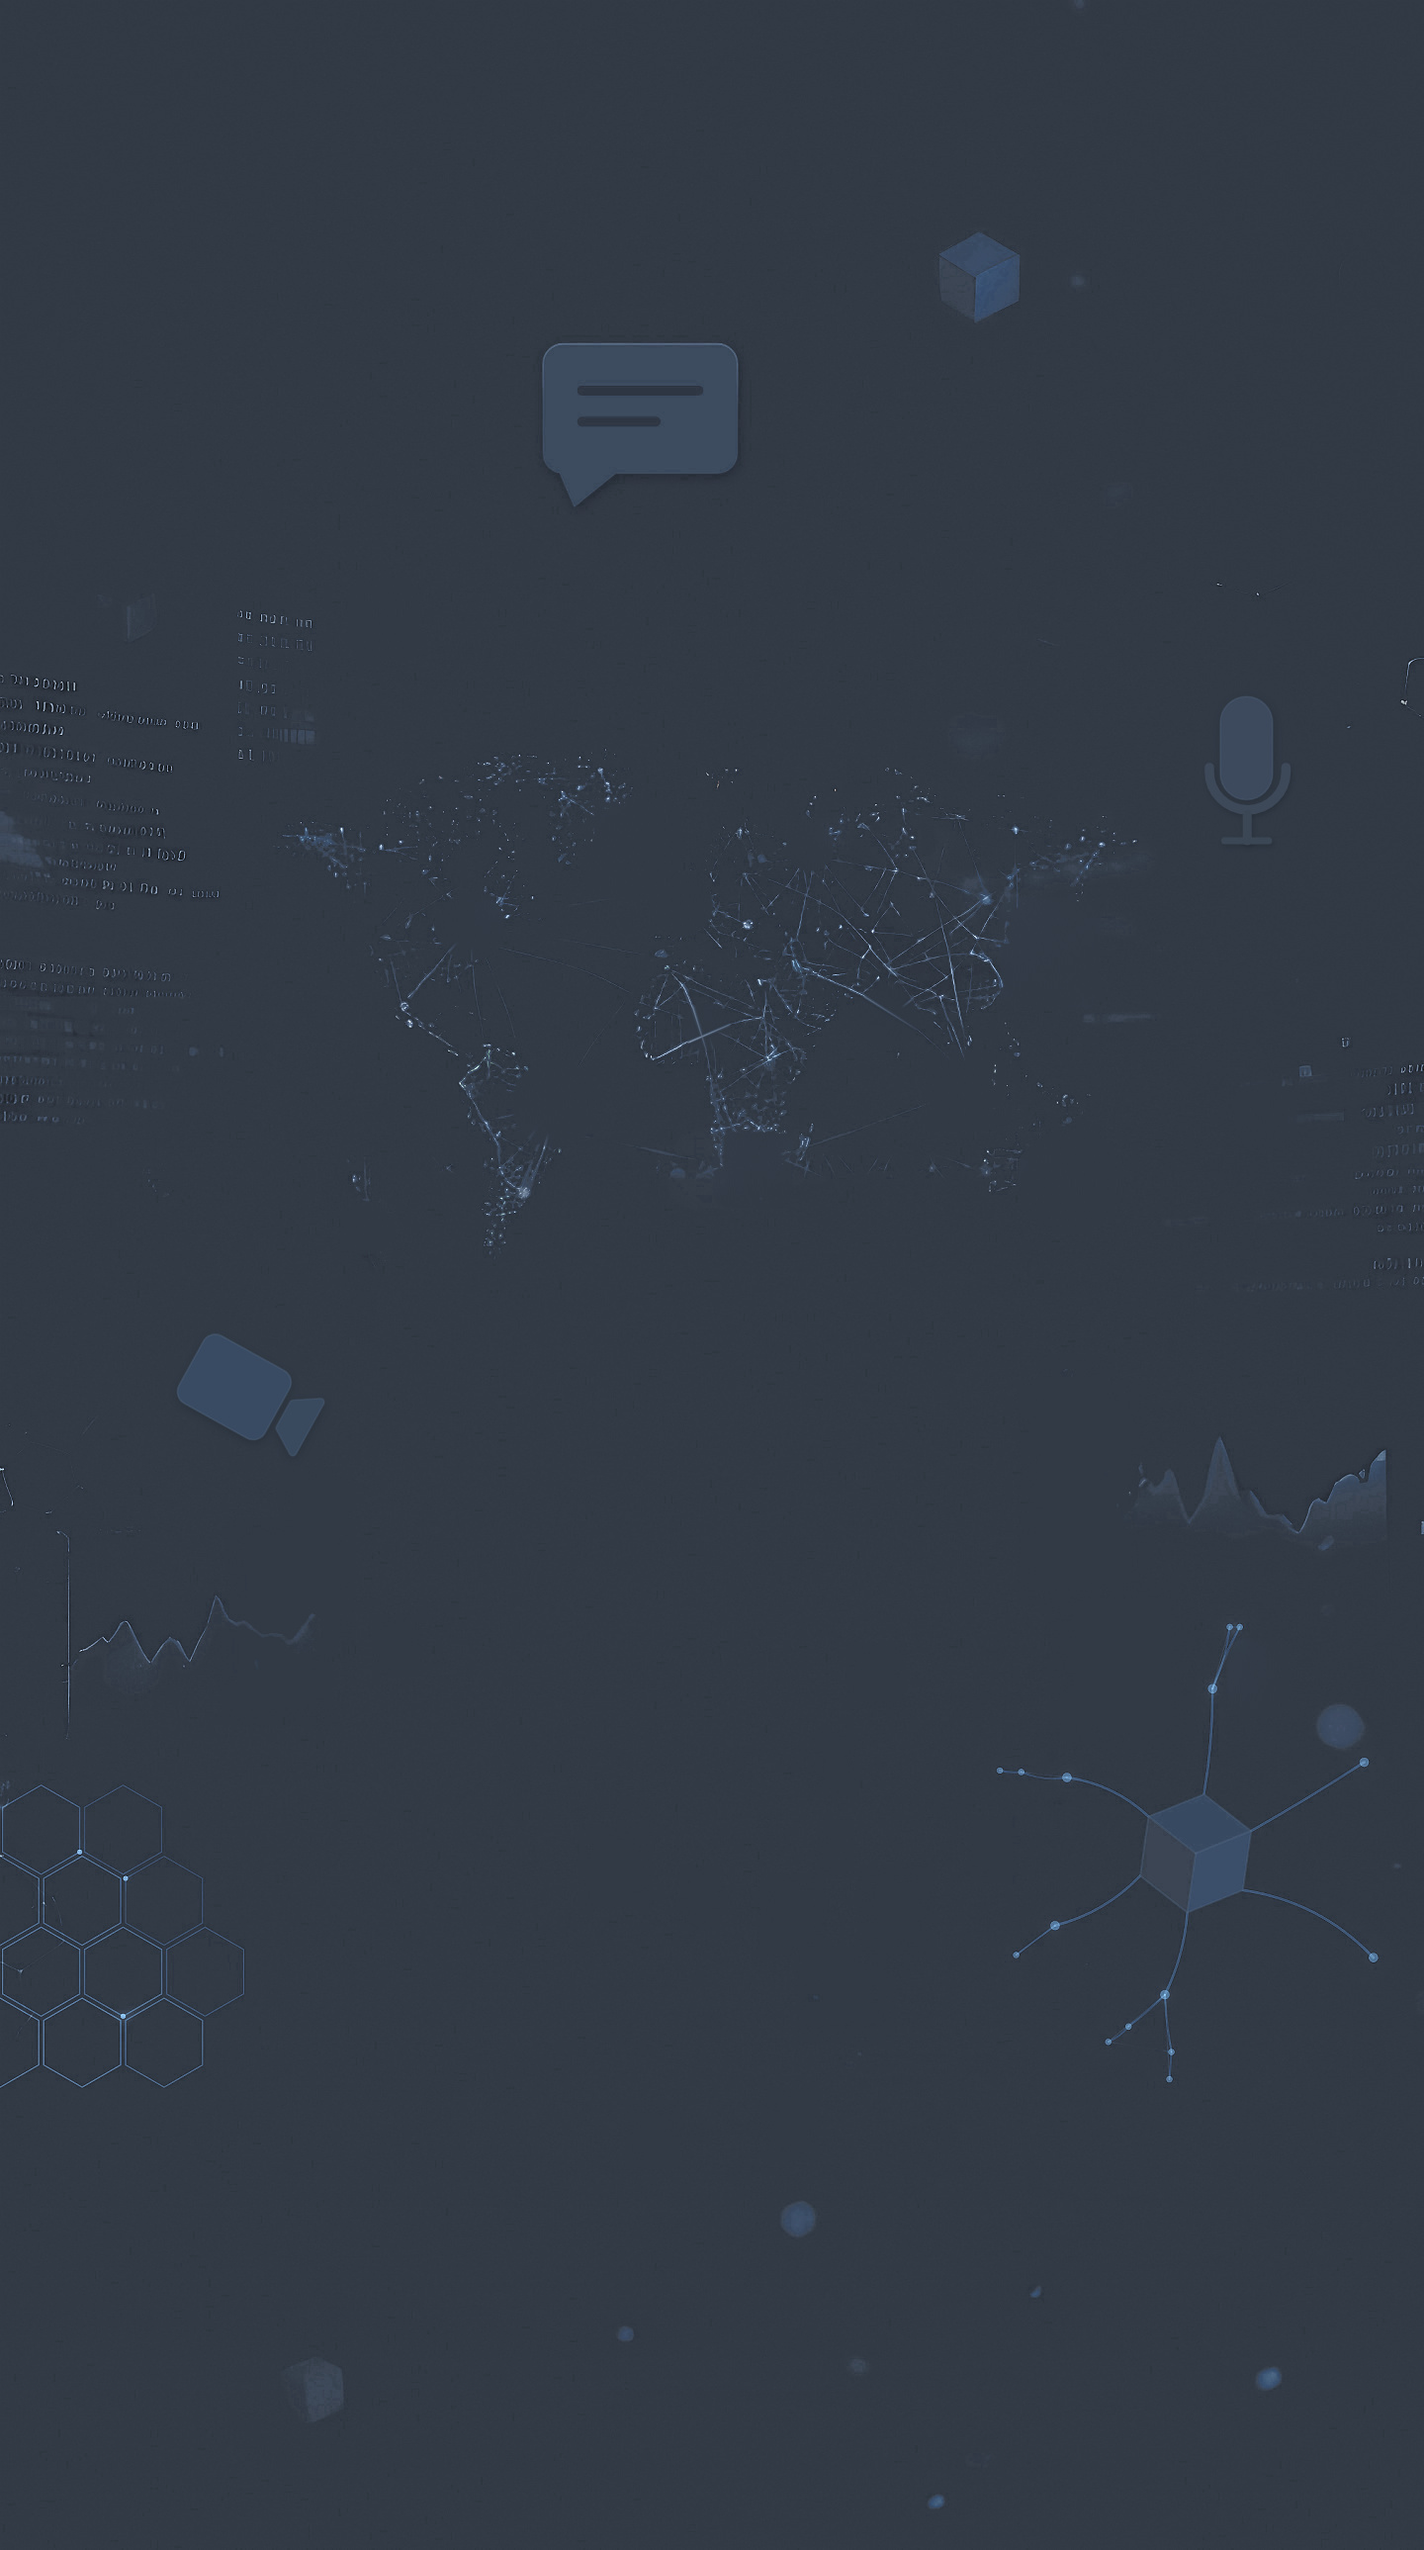
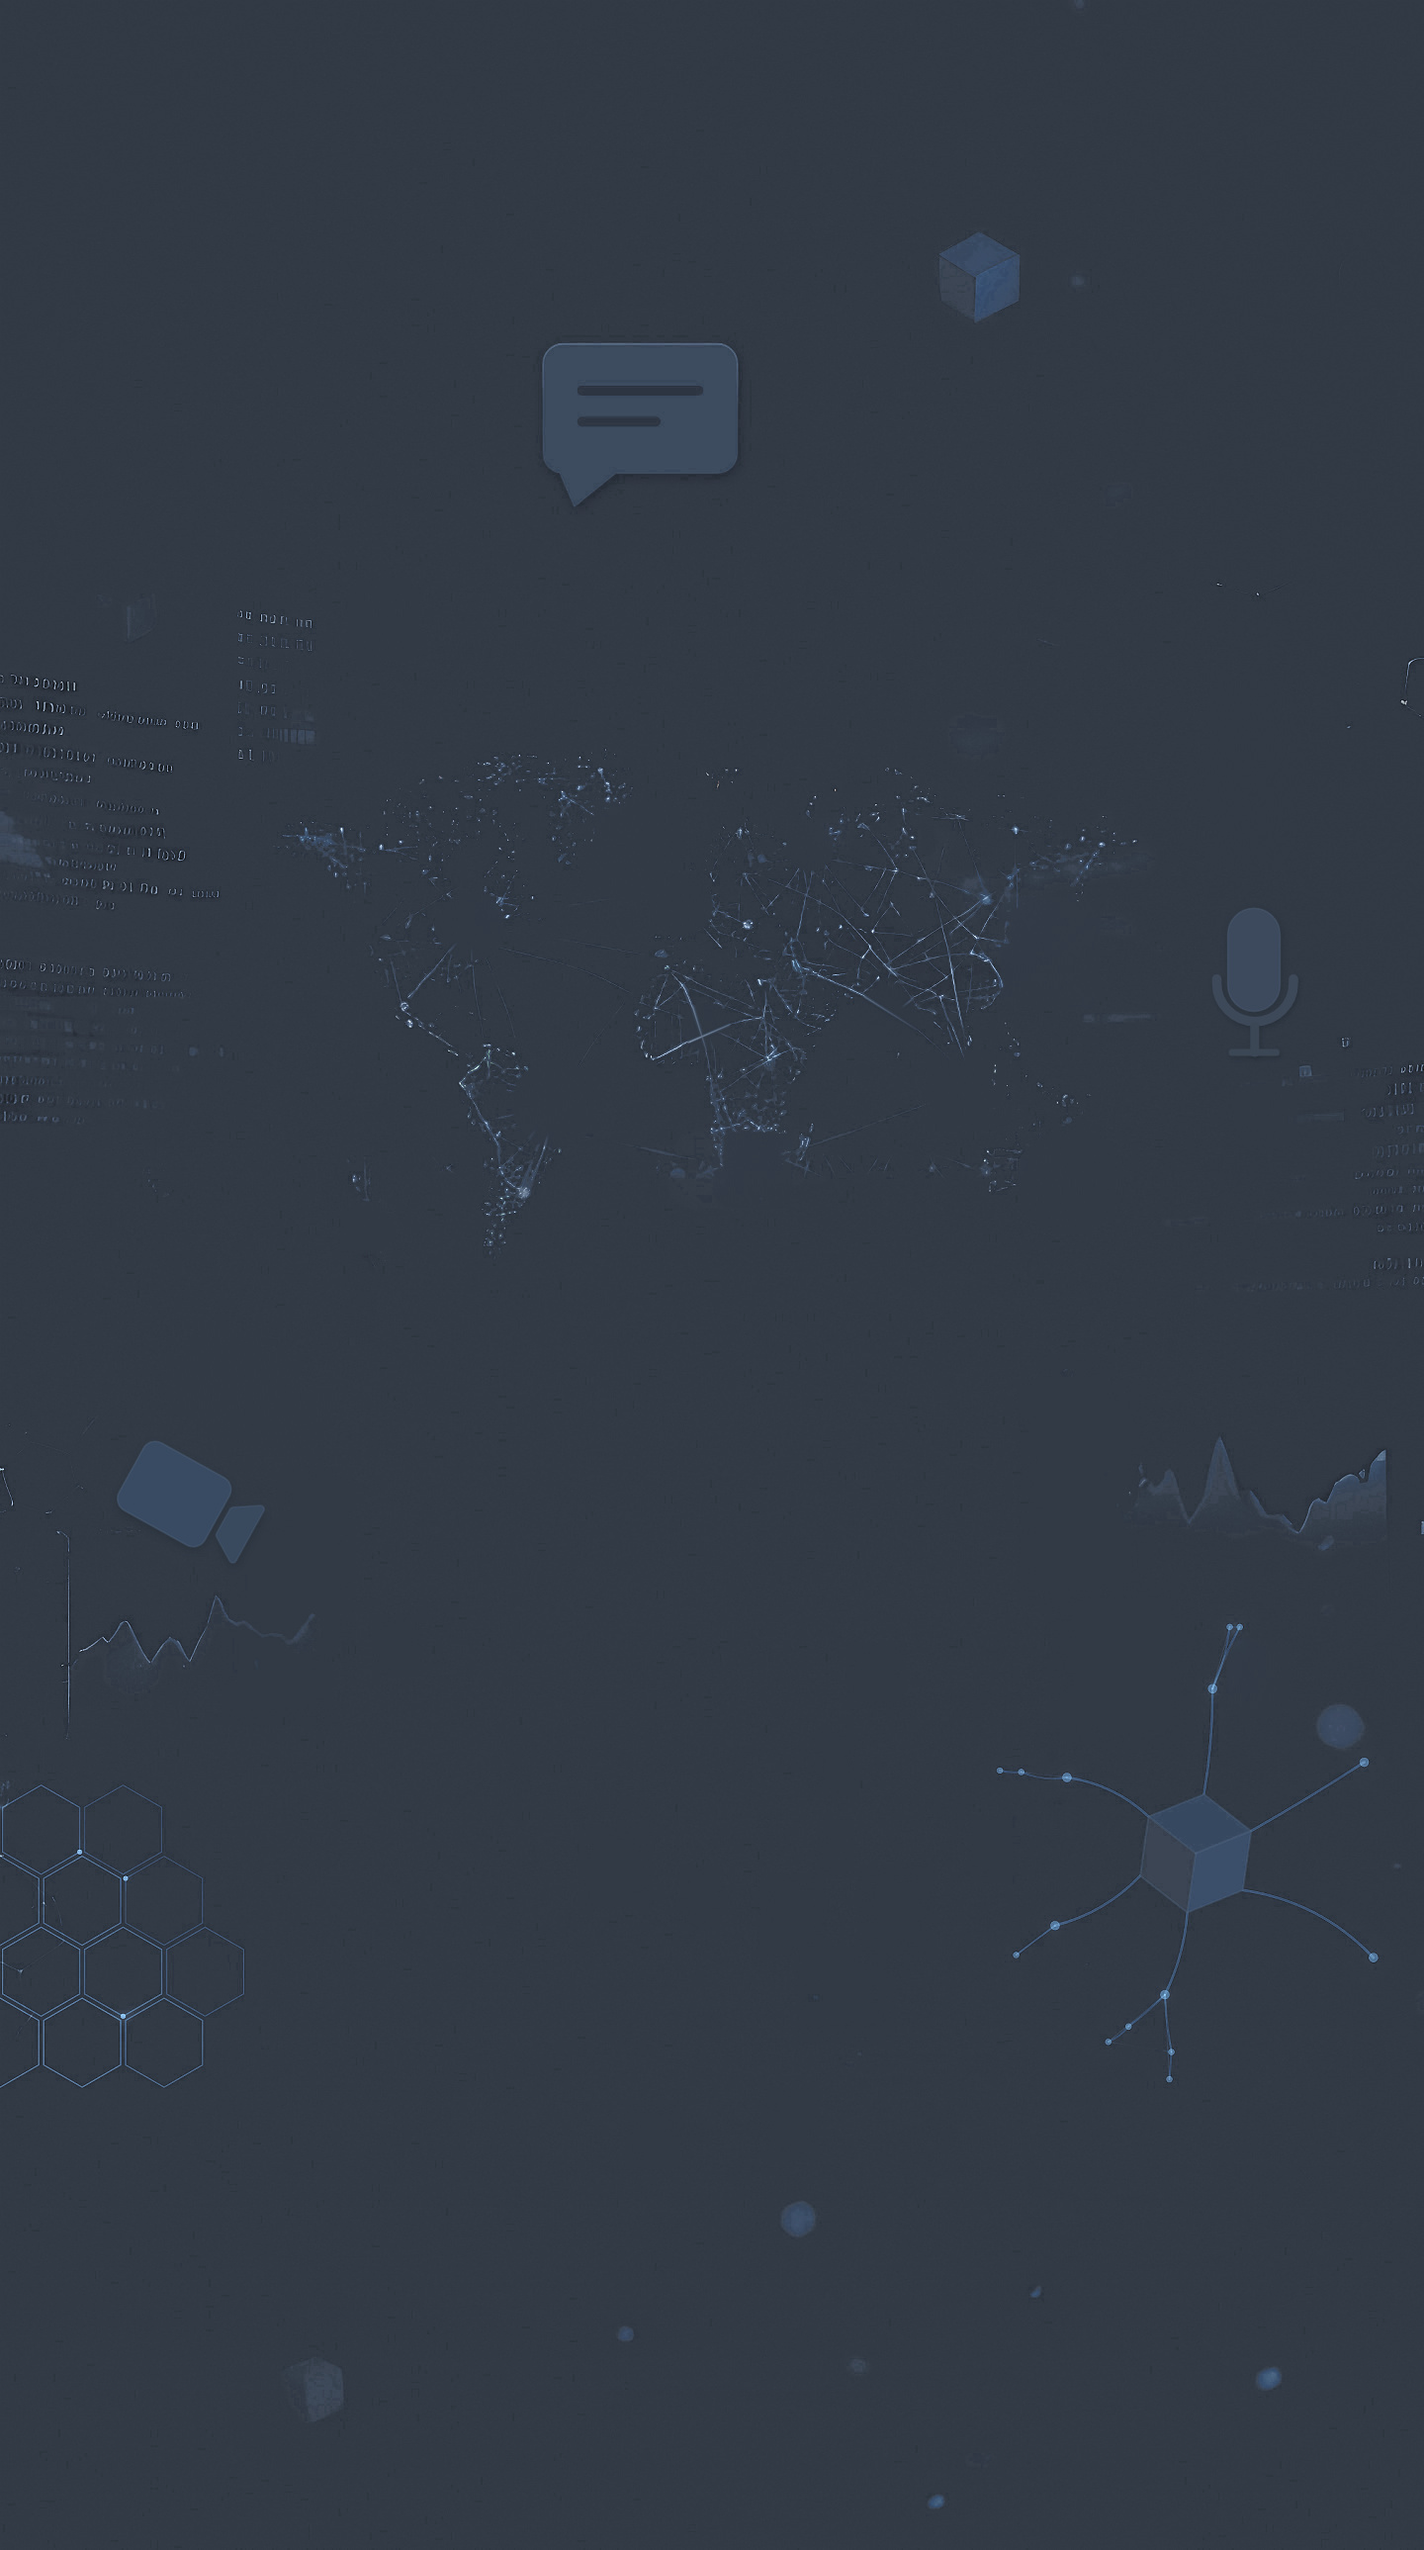
Restyle count badges, show call times with dates, and lower the stage camera and mic; bump Android AAB to build 205.
- Row counters (chats, friends) are crimson with white digits, a little smaller and centred; the «Пропущенные» segment counter is accent with a dark digit; the About counter matches the row counter.
- The call log shows the time after the date for calls before today.
- The active Profile tab figure takes the tab pill colour instead of near-black.
- Spatial stage: the camera moves lower with its rear third under the left screen edge, the mic moves lower and a hair right; depth layers regenerated.

Changed region(s): [[0.0625, 0.5275, 0.2188, 0.6206], [0.8438, 0.3413, 0.9062, 0.4034], [0.8438, 0.2793, 0.9062, 0.3103]]

diff --git a/frontend/scripts/refine-spatial-stage-details.js b/frontend/scripts/refine-spatial-stage-details.js
@@ -605,11 +605,12 @@ function roundedPolygon(ck, points, radius) {
 /**
  * Камера — геометрия и тон сняты с прежней (растровой) камеры в этом месте: корпус
  * 39.5×31 с радиусом 5.5, зазор до объектива 2.75, объектив-трапеция 6.4 → 14.2 по
- * полувысоте, поворот 29°.
+ * полувысоте, поворот 29°. С 2026-10-22 ниже прежнего места (94.1, 557) и левее: задняя
+ * треть корпуса уходит под левый край экрана (на S25 Ultra виден x от ~64).
  */
 function drawCamera(ck, canvas, scale) {
-  const cx = 94.1;
-  const cy = 557.0;
+  const cx = 70.0;
+  const cy = 600.0;
   canvas.save();
   canvas.rotate(29, cx, cy);
 
@@ -641,8 +642,10 @@ function drawCamera(ck, canvas, scale) {
   canvas.restore();
 }
 
-/** Во сколько раз микрофон меньше прежнего; центр (501, 309.5) остаётся на месте. */
+/** Во сколько раз микрофон меньше прежнего; уменьшается вокруг прежнего центра (501, 309.5). */
 const MIC_SCALE = 0.85;
+/** С 2026-10-22 микрофон ниже прежнего места и чуть правее. */
+const MIC_SHIFT = [3, 85];
 
 /**
  * Микрофон — пропорции и тон прежнего: капсула 24.75×48.75, дужка — полуокружность r 18.1
@@ -651,6 +654,7 @@ const MIC_SCALE = 0.85;
  */
 function drawMicrophone(ck, canvas, scale) {
   canvas.save();
+  canvas.translate(MIC_SHIFT[0], MIC_SHIFT[1]);
   canvas.translate(501, 309.5);
   canvas.scale(MIC_SCALE, MIC_SCALE);
   canvas.translate(-501, -309.5);
@@ -739,4 +743,4 @@ if (require.main === module) {
     });
 }
 
-module.exports = { MAP_ROUND_MARKERS, refineSpatialStage };
+module.exports = { MAP_ROUND_MARKERS, ERASE_RECTS, eraseElement, drawCrispIcons, compositePremultiplied, refineSpatialStage };

diff --git a/frontend/screens/home/HomeWelcomeCallsView.tsx b/frontend/screens/home/HomeWelcomeCallsView.tsx
@@ -36,7 +36,8 @@ import {
   WELCOME_HEADER_TITLE,
   WELCOME_MUTED_TEXT,
   WELCOME_SEGMENT_LABEL,
-  WELCOME_UNREAD_BADGE,
+  WELCOME_SEGMENT_BADGE,
+  WELCOME_SEGMENT_BADGE_TEXT,
   WELCOME_BRAND_GLYPH_INSET,
   WELCOME_TOP_BAR_SIDE_PAD,
   isWelcomeTabletLayout,
@@ -61,7 +62,7 @@ import {
   useGlassHeaderHeight,
 } from './WelcomeGlassHeader';
 import { friendMatchesNameSearch, getFriendDisplay, displayAvatarLetter } from './friendHelpers';
-import { formatWelcomeChatTime } from './chatPreview';
+import { formatWelcomeCallTime } from './chatPreview';
 import { useCallLog } from './hooks/useCallLog';
 import { deleteCallLogIds, recordCallLog } from './callLog';
 import { consumePendingWelcomeCallsFilter, onPendingWelcomeCallsFilter, setWelcomeCallsMissedFilterActive, setWelcomeCallsTabSelected, setWelcomeViewingMissedCalls, shouldSkipHomeUiSettle } from '../../utils/globalEvents';
@@ -179,7 +180,7 @@ const CallLogRow = memo(function CallLogRow({
     avatarLetter ||
     (friend?.name ? displayAvatarLetter(friend.name) : '') ||
     '—';
-  const timeLabel = at ? formatWelcomeChatTime(at) : '';
+  const timeLabel = at ? formatWelcomeCallTime(at) : '';
   const missed = direction === 'missed';
   const cancelled = direction === 'cancelled';
   const noAnswer = direction === 'no_answer';
@@ -1459,14 +1460,16 @@ const styles = StyleSheet.create({
     borderRadius: 9,
     alignItems: 'center',
     justifyContent: 'center',
-    backgroundColor: WELCOME_UNREAD_BADGE,
+    backgroundColor: WELCOME_SEGMENT_BADGE,
     flexShrink: 0,
   },
   missedBadgeText: {
-    color: LIVI.white,
+    color: WELCOME_SEGMENT_BADGE_TEXT,
     fontSize: 10,
     fontWeight: '700',
     lineHeight: 12,
+    // Цифры Exo 2 стоят ниже середины строки — по центру кружка (как в строках чатов).
+    transform: [{ translateY: -0.6 }],
   },
   emptyWrap: {
     paddingTop: 36,

diff --git a/frontend/screens/home/constants.ts b/frontend/screens/home/constants.ts
@@ -106,10 +106,13 @@ export const WELCOME_FILTER_ACTIVE = 'rgba(98, 176, 216, 0.30)';
 export const SEARCH_RADAR_HUD = UI_ACCENT;
 /** Подсветка того же тона: кромка луча, засветка шкалы, ядро цели. */
 export const SEARCH_RADAR_HUD_LIGHT = UI_ACCENT_LIGHT;
-/** Unread / missed count badge on welcome chats and friend action buttons. */
-export const WELCOME_UNREAD_BADGE = UI_ACCENT;
 /** Значок «есть обновление»: краповый, как точка на вкладке «Профиль» в навбаре. */
 export const WELCOME_UPDATE_BADGE = '#A63A48';
+/** Счётчик непрочитанных / пропущенных в строках чатов и друзей — краповый, цифра белая. */
+export const WELCOME_UNREAD_BADGE = WELCOME_UPDATE_BADGE;
+/** Счётчик у сегмента «Пропущенные» на «Звонках» — акцент; цифра тёмная, белая читалась плохо. */
+export const WELCOME_SEGMENT_BADGE = UI_ACCENT;
+export const WELCOME_SEGMENT_BADGE_TEXT = HOME_NAV_BG;
 export const CROWN_GOLD = '#E4C065';
 /** Скругление «полки» tab bar / шапки и композера чата по краям к контенту. */
 export const WELCOME_CHROME_EDGE_RADIUS = 24;

diff --git a/frontend/screens/home/HomeWelcomeTabBar.tsx b/frontend/screens/home/HomeWelcomeTabBar.tsx
@@ -17,7 +17,6 @@ import {
   WELCOME_CHROME_EDGE_RADIUS,
   WELCOME_FRIENDS_LIST_INSET,
   WELCOME_HEADER_TITLE,
-  WELCOME_STAGE_BG,
   WELCOME_UPDATE_BADGE,
   isWelcomeTabletLayout,
   UI_GLASS_CONTROL,
@@ -29,6 +28,8 @@ import {
  */
 const ACTIVE_ICON = UI_ACCENT;
 const ACTIVE_LABEL = WELCOME_HEADER_TITLE;
+/** Фигура в круге активного «Профиля» — цвет «таблетки» на экране (как внутри кольца лупы). */
+const PROFILE_ACTIVE_FIGURE = '#4C6273';
 
 export type WelcomeTabId = 'search' | 'friends' | 'fliq' | 'calls' | 'chat' | 'profile';
 
@@ -334,7 +335,7 @@ function HomeWelcomeTabBarInner({
               },
             ]}
           >
-            <Ionicons name="person" size={tabletLayout ? 19 : compactLandscape ? 16 : 17} color={WELCOME_STAGE_BG} />
+            <Ionicons name="person" size={tabletLayout ? 19 : compactLandscape ? 16 : 17} color={PROFILE_ACTIVE_FIGURE} />
           </View>
         ) : (
           <Ionicons name="person-outline" size={iconSize} color={color} />

diff --git a/frontend/screens/home/HomeWelcomeChatsView.tsx b/frontend/screens/home/HomeWelcomeChatsView.tsx
@@ -1215,20 +1215,24 @@ const styles = StyleSheet.create({
     fontWeight: '500',
   },
   unreadBadge: {
-    minWidth: 17,
-    height: 17,
-    paddingHorizontal: 5,
-    borderRadius: 9,
+    minWidth: 15,
+    height: 15,
+    paddingHorizontal: 4,
+    borderRadius: 8,
     alignItems: 'center',
     justifyContent: 'center',
     backgroundColor: WELCOME_UNREAD_BADGE,
     flexShrink: 0,
+    // Тот же отступ, что у даты: правый край счётчика — под концом даты («окт.»).
+    marginRight: 6,
   },
   unreadBadgeText: {
     color: LIVI.white,
-    fontSize: 10,
+    fontSize: 9.5,
     fontWeight: '700',
-    lineHeight: 12,
+    lineHeight: 11,
+    // Цифры Exo 2 стоят ниже середины строки — по центру кружка (замерено по пикселям).
+    transform: [{ translateY: -0.6 }],
   },
   emptyWrap: {
     paddingTop: 36,

diff --git a/frontend/screens/home/WelcomeProfileListUi.tsx b/frontend/screens/home/WelcomeProfileListUi.tsx
@@ -419,10 +419,10 @@ const styles = StyleSheet.create({
     fontSize: 14,
   },
   countBadge: {
-    minWidth: 17,
-    height: 17,
-    paddingHorizontal: 5,
-    borderRadius: 9,
+    minWidth: 15,
+    height: 15,
+    paddingHorizontal: 4,
+    borderRadius: 8,
     alignItems: 'center',
     justifyContent: 'center',
     // Счётчик в профиле — только об обновлении: краповый, как точка на вкладке «Профиль».
@@ -431,9 +431,11 @@ const styles = StyleSheet.create({
   },
   countBadgeText: {
     color: LIVI.white,
-    fontSize: 10,
+    fontSize: 9.5,
     fontWeight: '700',
-    lineHeight: 12,
+    lineHeight: 11,
+    // Как счётчик в строках чатов: цифры Exo 2 стоят ниже середины строки.
+    transform: [{ translateY: -0.6 }],
   },
   divider: {
     height: StyleSheet.hairlineWidth,

diff --git a/frontend/scripts/generate-spatial-depth.js b/frontend/scripts/generate-spatial-depth.js
@@ -67,9 +67,9 @@ const SEEDS = [
   // которую shapeElements заливает. Точка — у левого края тела.
   { name: 'bubble', at: [560, 430], plane: PLANE.near, pad: 36 },
   { name: 'cube-top', at: [988, 277], plane: PLANE.icons },
-  { name: 'mic', at: [1256, 740], plane: PLANE.icons },
+  { name: 'mic', at: [1264, 954], plane: PLANE.icons },
   // Камера — ниже и наклонена к кубу (build-spatial-stage-hq.js): точка внутри её корпуса.
-  { name: 'camera', at: [235, 1399], plane: PLANE.icons },
+  { name: 'camera', at: [176, 1511], plane: PLANE.icons },
   { name: 'neural-cube', at: [1208, 1872], plane: PLANE.icons },
 ];
 

diff --git a/frontend/screens/home/chatPreview.ts b/frontend/screens/home/chatPreview.ts
@@ -57,3 +57,12 @@ export function formatWelcomeChatTime(at: number): string {
   }
   return d.toLocaleDateString(undefined, { day: 'numeric', month: 'short' });
 }
+
+/** Журнал звонков: не сегодня — дата и время («19 окт. 14:32»), сегодня — только время. */
+export function formatWelcomeCallTime(at: number): string {
+  const label = formatWelcomeChatTime(at);
+  if (!label) return label;
+  const d = new Date(at);
+  if (d.toDateString() === new Date().toDateString()) return label;
+  return `${label} ${d.toLocaleTimeString([], { hour: '2-digit', minute: '2-digit' })}`;
+}
